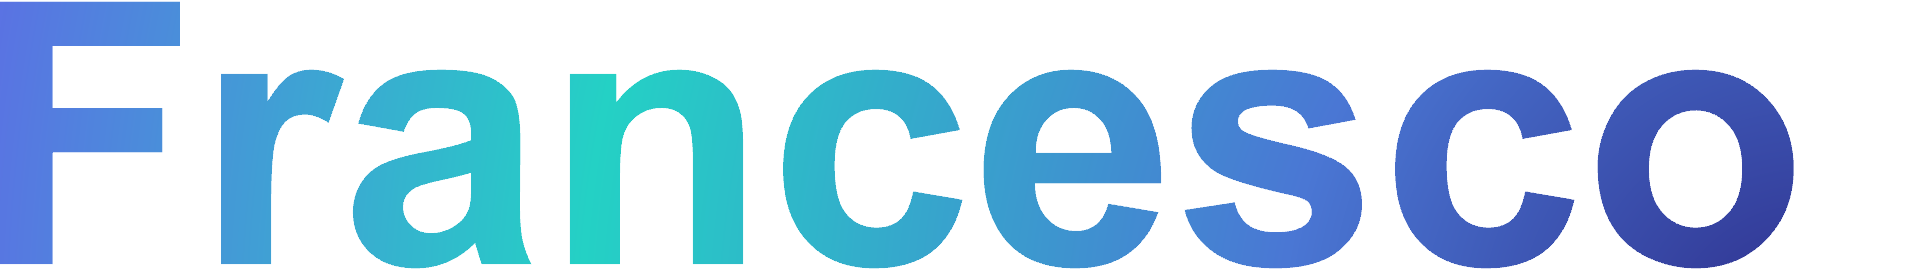
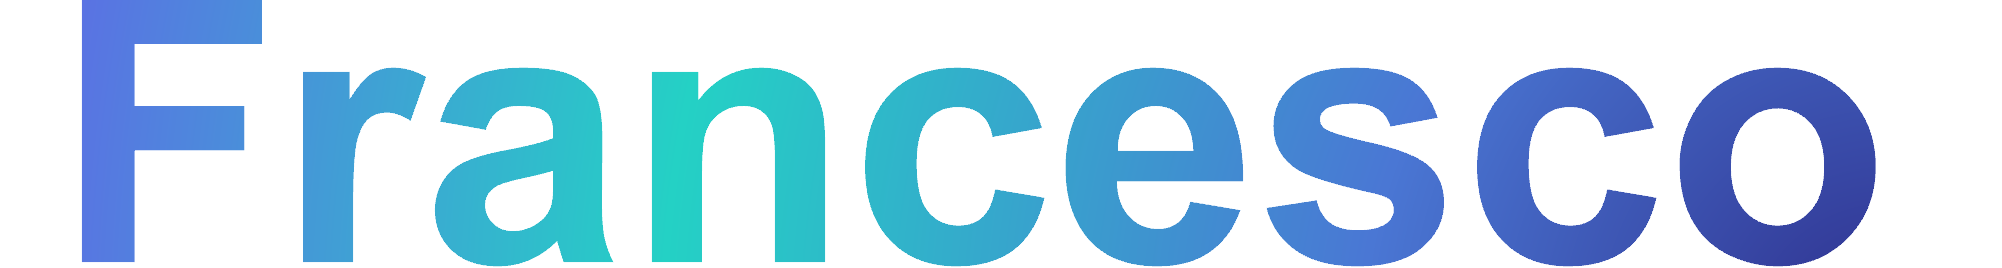
minor changes

diff --git a/README.md b/README.md
@@ -7,7 +7,7 @@
 <div id="user-content-toc">
   <ul align="center">
    <summary><h2 style="display: inline-block; margin-bottom: -100px;">Hi, I'm </h2>
-     <img src="https://github.com/Frklin/Frklin/blob/main/assets/Francesco_nobg.png" height="22.5">
+     <img src="https://github.com/Frklin/Frklin/blob/main/assets/Francesco_bold.png" height="22.3">
    </summary>
     <h3>AI Reseacher</h3>
     <p>📍 Based in Rome, Italy</p>
